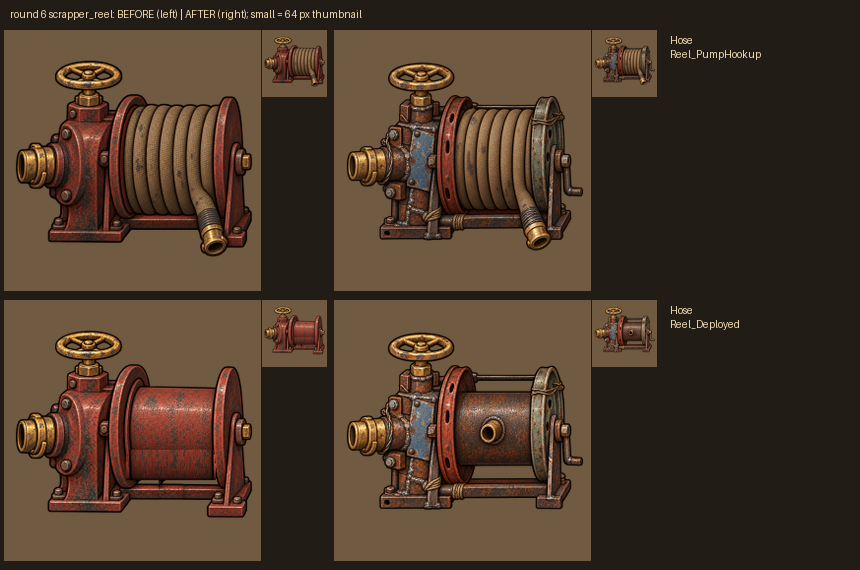
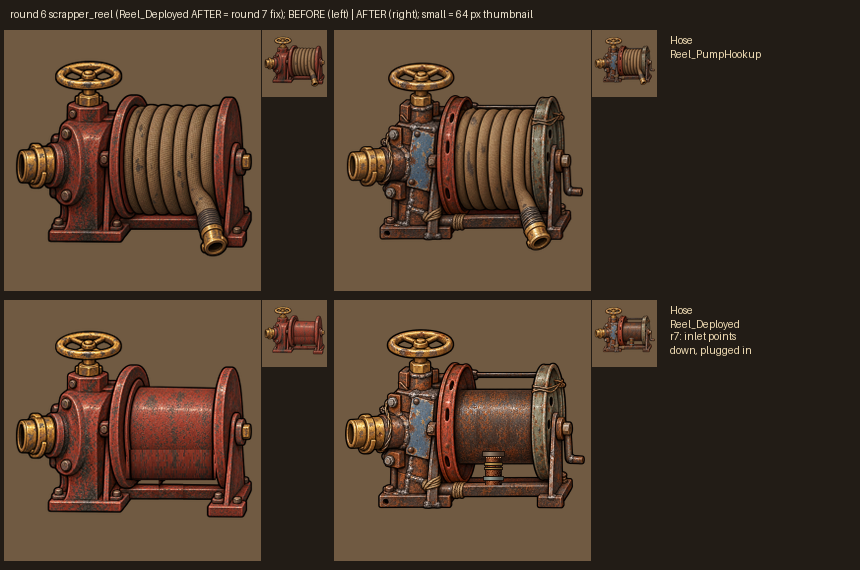
MessyConduit art r7: Scrapper laid reel inlet points down into the base, open socket on drum face removed

Changed region(s): [[0.393, 0.5667, 0.6953, 0.8947], [0.1209, 0.0, 0.6047, 0.0298], [0.786, 0.5667, 0.8767, 0.6263]]

diff --git a/src/RimMandrake/Utils/mockups/messy_conduit/round7_reel_fix.py b/src/RimMandrake/Utils/mockups/messy_conduit/round7_reel_fix.py
@@ -1,0 +1,92 @@
+"""round7_reel_fix.py -- MessyConduit art round 7: Scrapper laid reel inlet points DOWN.
+
+Owner (2026-10-04, r7 shot 20261004223832_1): "The junk-built reel (when deployed) shows an open
+connector pointed at the camera rather than it pointing down and plugged in like the others."
+
+Hand edit of the round-6 picture (canvas/anchor unchanged):
+  1. the open brass socket on the drum face is painted out with drum pixels cloned from the
+     same rows either side (rust noise hides the seam);
+  2. a rusty junk inlet stub is drawn from the drum's centre bottom DOWN into the base bar,
+     like the Industrial/Modern/Futuristic laid reels: welded collar at the drum, wire
+     lashing, a bodged clamp band, plugged into the frame.
+
+    python3 src/RimMandrake/Utils/mockups/messy_conduit/round7_reel_fix.py <src.png> <out.png>
+Install goes through `art install` only (see Transient/mc_art_round7_report.md).
+"""
+import random
+import sys
+
+from PIL import Image
+
+HOLE = (142, 108, 176, 146)          # x0, y0, x1, y1 of the socket + its shadow ring
+CX = 159                             # drum centre x (code aims the hose here)
+PIPE_TOP, PIPE_BOT = 153, 185        # drum lower edge -> into the base bar
+R = 7                                # pipe half-width
+
+OUTLINE = (28, 18, 12, 255)
+
+
+def lerp(a, b, t):
+    return tuple(int(round(a[i] + (b[i] - a[i]) * t)) for i in range(len(a)))
+
+
+def main(src, out):
+    im = Image.open(src).convert("RGBA")
+    px = im.load()
+    rnd = random.Random(7)
+
+    # 1. paint out the socket: left half from 18 px left, right half from 20 px right, cross-fade.
+    x0, y0, x1, y1 = HOLE
+    mid = (x0 + x1) / 2
+    orig = im.copy().load()
+    for y in range(y0, y1):
+        for x in range(x0, x1):
+            a = orig[x - 18, y]
+            b = orig[x + 20, y]
+            t = min(1, max(0, (x - (mid - 6)) / 12))
+            c = lerp(a, b, t)
+            # soft edge into the untouched drum
+            e = min(x - x0, x1 - 1 - x, y - y0, y1 - 1 - y)
+            if e < 3:
+                c = lerp(orig[x, y], c, (e + 1) / 4)
+            px[x, y] = c[:3] + (255,)
+
+    # 2. inlet stub: cylinder shading with sampled rust tones.
+    dark, mid_c, lite = (58, 30, 18), (122, 62, 34), (176, 104, 62)
+    for y in range(PIPE_TOP, PIPE_BOT):
+        for x in range(CX - R - 1, CX + R + 2):
+            d = (x - CX) / (R + 0.5)
+            if abs(x - CX) > R:
+                px[x, y] = OUTLINE
+                continue
+            s = 1 - abs(d + 0.35)                       # light from upper-left
+            c = lerp(dark, mid_c, min(1, s * 1.6)) if s < 0.62 else lerp(mid_c, lite, (s - 0.62) / 0.38)
+            n = rnd.randint(-12, 12)
+            if rnd.random() < 0.08:                     # rust pitting
+                n -= 30
+            px[x, y] = tuple(max(0, min(255, v + n)) for v in c) + (255,)
+
+    def band(yc, h, col, hi, w):
+        for y in range(yc, yc + h):
+            for x in range(CX - w - 1, CX + w + 2):
+                if abs(x - CX) > w or y in (yc, yc + h - 1):
+                    px[x, y] = OUTLINE
+                else:
+                    t = 1 - abs((x - CX) / (w + 0.5) + 0.35)
+                    px[x, y] = lerp(col, hi, max(0, t)) + (255,)
+
+    band(PIPE_TOP - 2, 6, (70, 52, 40), (150, 130, 110), R + 3)       # welded collar at drum
+    band(PIPE_TOP + 9, 4, (110, 84, 40), (196, 160, 90), R + 1)        # brass wire lashing
+    band(PIPE_TOP + 14, 3, (110, 84, 40), (196, 160, 90), R + 1)
+    band(PIPE_BOT - 9, 5, (78, 84, 80), (150, 160, 150), R + 2)        # bodged grey clamp band
+    # clamp bolt
+    for (x, y) in ((CX + R + 3, PIPE_BOT - 8), (CX + R + 3, PIPE_BOT - 7)):
+        px[x, y] = (40, 36, 30, 255)
+    # weld bead dots under the collar
+    for x in range(CX - R, CX + R + 1, 2):
+        px[x, PIPE_TOP + 4] = (196, 150, 110, 255)
+    im.save(out)
+
+
+if __name__ == "__main__":
+    main(sys.argv[1], sys.argv[2])

diff --git a/Transient/mc_art_round7_report.md b/Transient/mc_art_round7_report.md
@@ -1,0 +1,20 @@
+# MessyConduit art round 7 — Scrapper laid reel connector
+
+Owner: "The junk-built reel (when deployed) shows an open connector pointed at the camera rather than it pointing down and plugged in like the others."
+
+## Status
+- [x] inspect current + comparisons
+- [x] redraw
+- [x] validate
+- [x] art install
+- [x] commit
+
+## Notes
+- inspected: scrapper laid reel had an open brass socket at drum face (x~145-172,y~110-142); others have a vertical inlet post from drum bottom to base bar.
+- approach: deterministic hand edit, src/RimMandrake/Utils/mockups/messy_conduit/round7_reel_fix.py (paint socket out with cloned drum pixels; draw rusty inlet stub down from drum centre bottom x=159).
+- validator (`skills/generating-rimworld-sprites/scripts/validate_sprite.py`, ref = round-6 picture): PASS; 256x256 RGBA, subject bbox (11,29) 240x180 unchanged, centroid (132,131) vs (131,131). `--strict` only warns on 0.74% faint fringe inherited from the round-6 art (ref 0.78%).
+- installed via `art install` (reason `script:src/RimMandrake/Utils/mockups/messy_conduit/round7_reel_fix.py`): cb47aac97 -> 0c5979549a39; ledger shard `infrastructure/state/art/events/BENCH.jsonl`.
+- review sheet updated: `D:\Luke\dev\RimMandrake\Transient\mc_style_art\round6_scrapper_reel.png` (laid AFTER panel = round 7).
+
+## Result
+Open brass socket on the drum face painted out (drum rust cloned from either side); a rusty junk inlet stub now drops from the drum's centre bottom (x=159) into the base bar — welded collar, brass wire lashings, bodged grey clamp band — matching the Industrial/Modern/Futuristic laid reels. Junk look, canvas and anchor unchanged. No Source/Defs touched.
